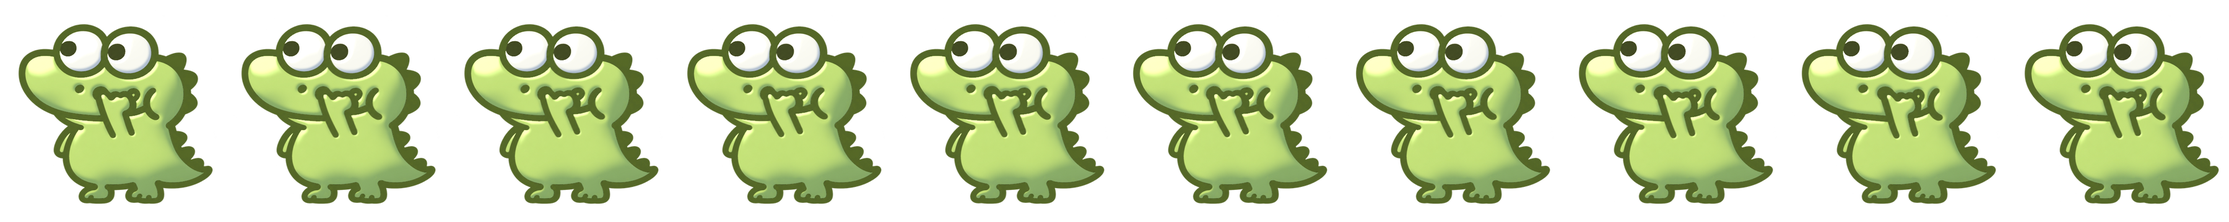
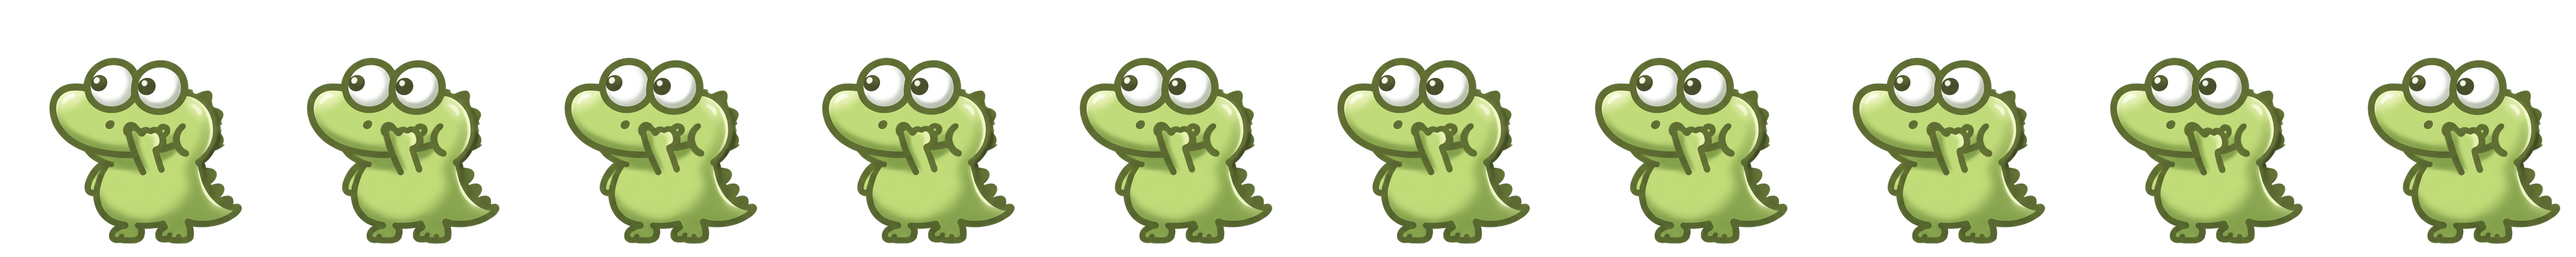
Switch the desktop crocodile to eight 2.5D key poses
- web/assets/desktop/source/ holds eight 2.5D key poses of the original
  character (rest picking its nose, crouch, work, recoil, relief, think,
  drink, jump), cut out of AI-assisted pose sheets that used the
  author's drawings as reference. BuildCrocSprites.py puts every pose on
  one canvas with the feet on a shared ground point, warps the nose-pick
  cycle and the tail sweep from the rest and work poses, and writes
  rest.png, work.png and poses.png.
- A pose state machine: state changes crouch, leap with the jump pose
  and land in the new pose; tools show the thinking pose; a finished
  stream gets a sigh of relief; a drop in local quota shows a drink;
  full speed holds the straining recoil face and slower shots flash it.
- Bottles move clear of the larger snout; effort now spans the tiers
  (about .3 at 40 tok/s, 1 from 140), so sweat and the strain face
  appear at the top tier. The preview drops quota while tools run so the
  drink shows in recordings.

diff --git a/CrocDesktop.cs b/CrocDesktop.cs
@@ -32,9 +32,11 @@ class CrocDesktop : Form {
     readonly Timer timer=new Timer();
     readonly ContextMenuStrip contextMenu=new ContextMenuStrip();
     // Frame strips built by BuildCrocSprites.py from the original drawings.
-    Image rest,work,bottle,bottleEmpty;
+    Image rest,work,poses,bottle,bottleEmpty;
     // Sprites pre-resampled once per scale, so each frame copies small bitmaps.
-    Bitmap[] restFrames=new Bitmap[0],workFrames=new Bitmap[0];
+    Bitmap[] restFrames=new Bitmap[0],workFrames=new Bitmap[0],poseFrames=new Bitmap[0];
+    // poses.png order, matching BuildCrocSprites.POSES.
+    const int Crouch=0, Recoil=1, Relief=2, Think=3, Drink=4, Jump=5;
     Bitmap bottleScaled,bottleEmptyScaled,poopScaled;
     double spriteScale=0;
     readonly string[] barText=new string[3];
@@ -58,25 +60,28 @@ class CrocDesktop : Form {
     DateTime previous=DateTime.UtcNow, lastRead=DateTime.MinValue;
     // Animation state, all advanced by Animate(dt) on the scene clock.
     double clock=0, poseSwitchAt=-10, lastRender=-1, nextBlink=1.8, blinkStart=-10, nextDrop=0, nextPick=3, pickStart=-10, lastPuff=-1;
-    bool doubleBlink=false, landed=true;
+    // Short-lived key poses: recoil after a single shot, relief after a stream, drinking when quota drops.
+    double recoilPoseUntil=-1, reliefUntil=-1, drinkUntil=-1;
+    bool doubleBlink=false, landed=true, wasEmitting=false, restShown=true;
+    float lastQuota=-1;
     int pickLoops=1;
     // Springs: recoil (px, negative toward the snout), tail sweep (degrees),
     // the bottles' lagging follow of the head (px) and their own tilt.
     float recoil=0, recoilVel=0, tail=0, tailVel=0, follow=0, followVel=0, hopY=0;
     readonly float[] bottleTilt=new float[5], bottleTiltVel=new float[5];
-    float workBlend=0, squash=0, squashVel=0, lean=0, effort=0, toolsBlend=0, quotaPercent=0, fillShown=1;
+    float squash=0, squashVel=0, lean=0, effort=0, toolsBlend=0, quotaPercent=0, fillShown=1;
     readonly float[] bottleScale=new float[5], bottleVel=new float[5];
     readonly Random random=new Random();
     class Particle { public float X,Y,TargetY,Speed,Age,Hop; public int Index; }
     class Drop { public float X,Y,VX,VY,Age; }
     class Puff { public float X,Y,Age,Size; }
     // Scene geometry in the 420 x 244 logical canvas.
-    // The work drawing stands 5.5 px higher than the rest drawing; WorkDrop puts both on the same ground.
-    const float SpriteX=125, SpriteY=35, SpriteSize=164, PivotX=207, PivotY=185, WorkDrop=5.5f;
-    const float ButtX=232, ButtY=145, EndX=408, PoopW=18, PoopH=15;
-    static readonly float[] LaneY={145,121,169}; // Butt height first, then fanned above and below.
+    // Every frame shares one square canvas whose feet point (59%, 95%) sits on PivotX, PivotY.
+    const float SpriteX=84.43f, SpriteY=-11.86f, SpriteSize=208, PivotX=207, PivotY=185;
+    const float ButtX=238, ButtY=138, EndX=408, PoopW=18, PoopH=15;
+    static readonly float[] LaneY={138,114,162}; // Butt height first, then fanned above and below.
     // Eye whites as fractions of the drawing (left, top, right, bottom).
-    static readonly float[,] RestEyes={{.2714f,.1406f,.4571f,.3203f},{.4857f,.1523f,.6776f,.3281f}};
+    static readonly float[,] RestEyes={{.3536f,.2536f,.4964f,.3911f},{.5411f,.2643f,.6839f,.3982f}};
         // Tail sweep of each work.png frame, matching BuildCrocSprites.TAIL.
     static readonly float[] TailAngles={-8,-4,0,4,8,12,16,20};
     static readonly Color Outline=Color.FromArgb(84,104,36), LidTop=Color.FromArgb(206,236,140), LidBottom=Color.FromArgb(160,190,96);
@@ -91,7 +96,7 @@ class CrocDesktop : Form {
         FormBorderStyle=FormBorderStyle.None;ShowInTaskbar=false;TopMost=true;StartPosition=FormStartPosition.Manual;
         Text="Croc Token 桌面鳄鱼";
         string art=Path.Combine(root,"web/assets/desktop");
-        rest=Image.FromFile(Path.Combine(art,"rest.png"));work=Image.FromFile(Path.Combine(art,"work.png"));
+        rest=Image.FromFile(Path.Combine(art,"rest.png"));work=Image.FromFile(Path.Combine(art,"work.png"));poses=Image.FromFile(Path.Combine(art,"poses.png"));
         bottle=Image.FromFile(Path.Combine(art,"bottle.png"));bottleEmpty=Image.FromFile(Path.Combine(art,"bottle-empty.png"));
         var area=Screen.PrimaryScreen.WorkingArea;Location=new Point(area.Right-450,area.Bottom-230);
         try{var saved=json.Deserialize<Dictionary<string,object>>(File.ReadAllText(Path.Combine(runtime,"layout.json")));scale=Convert.ToDouble(saved["scale"]);Location=new Point(Convert.ToInt32(saved["x"]),Convert.ToInt32(saved["y"]));}catch{}
@@ -129,7 +134,7 @@ class CrocDesktop : Form {
                 File.WriteAllText(Path.Combine(runtime,"smoke-result.json"),json.Serialize(new{visible=true,transparent=true,working=true,restored=true,menuCycles=8,modelAndCache=true,animationTimer=true,fiveSpeedTiers=true,bottleCountPreserved=true,bottomDataBar=true,poopMotion=true,width=Width,height=Height}));
             }catch(Exception error){File.WriteAllText(Path.Combine(runtime,"smoke-result.json"),json.Serialize(new{error=error.ToString()}));}
             Close();check.Dispose();};Shown+=(s,e)=>check.Start();}
-        FormClosed+=(s,e)=>{timer.Stop();Save();tray.Dispose();contextMenu.Dispose();rest.Dispose();work.Dispose();bottle.Dispose();bottleEmpty.Dispose();DisposeSprites();foreach(var f in barFont)if(f!=null)f.Dispose();FreeSurface();};
+        FormClosed+=(s,e)=>{timer.Stop();Save();tray.Dispose();contextMenu.Dispose();rest.Dispose();work.Dispose();poses.Dispose();bottle.Dispose();bottleEmpty.Dispose();DisposeSprites();foreach(var f in barFont)if(f!=null)f.Dispose();FreeSurface();};
     }
     void Save(){try{File.WriteAllText(Path.Combine(runtime,"layout.json"),json.Serialize(new{ x=Left,y=Top,scale=scale}));}catch{}}
     void ResizeScene(double value){scale=Math.Max(.7,Math.Min(2,value));ClientSize=new Size((int)(420*scale),(int)(244*scale));Save();Render(true);}
@@ -176,13 +181,13 @@ class CrocDesktop : Form {
         }
     }
     void DisposeSprites(){
-        foreach(var b in restFrames)b.Dispose();foreach(var b in workFrames)b.Dispose();
+        foreach(var b in restFrames)b.Dispose();foreach(var b in workFrames)b.Dispose();foreach(var b in poseFrames)b.Dispose();
         foreach(var b in new[]{bottleScaled,bottleEmptyScaled,poopScaled})if(b!=null)b.Dispose();
     }
     void EnsureSprites(){
         if(spriteScale==scale)return;
         DisposeSprites();spriteScale=scale;
-        restFrames=Frames(rest,scale);workFrames=Frames(work,scale);
+        restFrames=Frames(rest,scale);workFrames=Frames(work,scale);poseFrames=Frames(poses,scale);
         bottleScaled=Resample(bottle,20,30,scale);bottleEmptyScaled=Resample(bottleEmpty,20,30,scale);
         poopScaled=BuildPoop(scale);
     }
@@ -286,13 +291,20 @@ class CrocDesktop : Form {
         if(working!=wasWorking){
             squashVel+=working?-2.4f:-1.8f;wasWorking=working;poseSwitchAt=clock;landed=false;
             // Back at rest, the finger goes straight back to the nose.
-            if(!working){pickStart=clock+.45;pickLoops=1;nextPick=clock+5+random.NextDouble()*4;}
+            if(!working){pickStart=clock+.6;pickLoops=1;nextPick=clock+5+random.NextDouble()*4;}
         }
+        // A stream ending earns a sigh of relief; starting one is a small brace.
+        if(wasEmitting&&!emitting)reliefUntil=clock+1.3;
+        if(!wasEmitting&&emitting&&clock-poseSwitchAt>.4)squashVel-=1.2f;
+        wasEmitting=emitting;
+        // Milk gone from the bottles: the crocodile was drinking.
+        if(lastQuota>=0&&bottles>0&&quotaPercent<lastQuota-.01f&&!emitting)drinkUntil=clock+1.7;
+        lastQuota=quotaPercent;
         double jump=clock-poseSwitchAt;
         hopY=jump>=.07&&jump<.31?-(working?8:6)*(float)Math.Sin(Math.PI*(jump-.07)/.24):0;
-        if(jump>=.14)workBlend=working?1:0;
         if(!landed&&jump>=.31){landed=true;squashVel-=1.5f;}
-        effort+=((emitting?Clamp01((motion-.2f)/1.4f):0)-effort)*blend;
+        // Effort 0..1 across the speed tiers: about .3 at 40 tok/s, .6 at 80, 1 from 140.
+        effort+=((emitting?Clamp01((motion-.2f)/.8f):0)-effort)*blend;
         lean+=((working?-1.2f-3.4f*effort:0)-lean)*blend;
         toolsBlend+=((working&&!emitting?1:0)-toolsBlend)*(1-(float)Math.Exp(-dt/.15));
         // Every poop is a shot: it leaves fast, and the body, tail and bottles take
@@ -308,6 +320,7 @@ class CrocDesktop : Form {
                 laneEmission[lane]-=1;
                 particles.Add(new Particle{X=ButtX+recoil,Y=ButtY,TargetY=LaneY[lane],Speed=speed*1.9f,Index=particles.Count+lane});
                 recoilVel-=210*kick;tailVel+=220*kick;squashVel-=.9f*kick;
+                if(kick>.55f)recoilPoseUntil=clock+.13;
                 for(int i=0;i<5;i++)bottleTiltVel[i]+=((float)random.NextDouble()*2-1)*55*kick;
                 if(clock-lastPuff>.05){lastPuff=clock;puffs.Add(new Puff{X=ButtX+4+recoil,Y=ButtY-2+(float)random.NextDouble()*4,Size=.8f+.4f*kick});}
             }
@@ -349,13 +362,27 @@ class CrocDesktop : Form {
         double t=clock-blinkStart;
         return Math.Max(Lid(t),doubleBlink&&t>=.22?Lid(t-.22):0);
     }
+    Bitmap Pose(int index){return poseFrames.Length>index?poseFrames[index]:restFrames[0];}
     Bitmap CurrentFrame(){
-        if(workBlend>.5f){
-            int best=0;for(int i=1;i<TailAngles.Length&&i<workFrames.Length;i++)if(Math.Abs(TailAngles[i]-tail)<Math.Abs(TailAngles[best]-tail))best=i;
-            return workFrames[Math.Min(best,workFrames.Length-1)];
+        restShown=false;
+        // Pose changes: crouch, then airborne, then the new pose.
+        double jump=clock-poseSwitchAt;
+        if(jump<.07)return Pose(Crouch);
+        if(jump<.31)return Pose(Jump);
+        if(working){
+            if(emitting){
+                // A full-speed stream holds the straining face; slower shots flash it.
+                if(effort>.75f||clock<recoilPoseUntil)return Pose(Recoil);
+                int best=0;for(int i=1;i<TailAngles.Length&&i<workFrames.Length;i++)if(Math.Abs(TailAngles[i]-tail)<Math.Abs(TailAngles[best]-tail))best=i;
+                return workFrames[Math.Min(best,workFrames.Length-1)];
+            }
+            if(clock<reliefUntil)return Pose(Relief);
+            if(clock<drinkUntil)return Pose(Drink);
+            return Pose(Think);
         }
-        // Starting work pulls the finger out of the nose during the crouch.
-        if(working&&restFrames.Length>8)return restFrames[clock-poseSwitchAt<.07?7:8];
+        if(clock<reliefUntil)return Pose(Relief);
+        if(clock<drinkUntil)return Pose(Drink);
+        restShown=true;
         int cycle=restFrames.Length-1,step=(int)((clock-pickStart)*15);
         return cycle>0&&step>=0&&step<cycle*pickLoops?restFrames[1+step%cycle]:restFrames[0];
     }
@@ -404,7 +431,7 @@ class CrocDesktop : Form {
     void DrawBottles(Graphics g){
         // Five staggered slots in front of the snout; each floats on its own phase,
         // trails the head's lean and recoil, and wobbles when a shot lands.
-        float[,] slots={{117,84,.28f},{124,114,-.12f},{102,136,.06f},{141,150,-.05f},{110,174,.14f}};
+        float[,] slots={{62,82,.28f},{80,110,-.12f},{52,136,.06f},{118,152,-.05f},{86,170,.14f}};
         int last=bottles-1;
         for(int i=0;i<5;i++){
             float s=bottleScale[i];if(s<.02f)continue;
@@ -479,10 +506,10 @@ class CrocDesktop : Form {
         // A steady stream shudders the body slightly.
         float shudder=emitting?(float)Math.Sin(clock*47)*.5f*effort:0;
         g.TranslateTransform(PivotX+recoil+shudder,PivotY+bob+hopY);g.RotateTransform(lean+recoil*.35f);g.ScaleTransform(sx,sy);g.TranslateTransform(-PivotX,-PivotY);
-        var box=new RectangleF(SpriteX,SpriteY+(workBlend>.5f?WorkDrop:0),SpriteSize,SpriteSize);
+        var box=new RectangleF(SpriteX,SpriteY,SpriteSize,SpriteSize);
         g.DrawImage(CurrentFrame(),box);
-        // Only the resting face blinks; the working brows sit over the eye whites.
-        float closure=workBlend>.5f?0:Blink();
+        // Only the resting face blinks; the other poses draw their own eyes.
+        float closure=restShown?Blink():0;
         if(closure>.02f){
             var eyes=RestEyes;
             using(var lid=new Pen(Outline,2.6f)){

diff --git a/BuildCrocSprites.py b/BuildCrocSprites.py
@@ -1,18 +1,19 @@
-"""Build the desktop crocodile's 2.5D frame strips from the original artwork.
+"""Build the desktop crocodile's frame strips in web/assets/desktop/.
 
 Offline asset tool, not needed at runtime: requires Pillow, NumPy and SciPy
-(`python -m pip install pillow numpy scipy`). It reads the four flat drawings
-in web/assets/ and writes web/assets/desktop/:
+(`python -m pip install pillow numpy scipy`).
 
-- rest.png: idle pose; frame 0 neutral, frames 1..N a nose-picking cycle.
-- work.png: working pose with the tail swept from down to up.
-- bottle.png / bottle-empty.png: the bottle with the same lighting, full and
-  with its milk replaced by pale glass (for the partly drunk bottle).
+Sources (web/assets/desktop/source/) are eight 2.5D key poses of the original
+character - rest (nose picking), crouch, work, recoil, relief, think, drink and
+jump - cut out of AI-assisted pose sheets that used the author's drawings as
+the reference. Every pose is placed on one square canvas with its feet on a
+shared ground point, so poses swap without the body jumping. Outputs:
 
-Each frame is warped from the original drawing (so the character stays the
-author's) and then lit as a soft 2.5D volume: a key light from the top left,
-a two-tone core shadow, a glossy highlight and a faint rim on the back edge.
-The ink lines are left untouched.
+- rest.png: rest pose; frame 0 neutral, frames 1..N a warped nose-pick cycle.
+- work.png: work pose with the tail swept from down to up (TAIL degrees).
+- poses.png: crouch, recoil, relief, think, drink, jump (POSES order).
+- bottle.png / bottle-empty.png: the floating bottle, lit to match, full and
+  with the milk replaced by pale glass.
 """
 from pathlib import Path
 import math
@@ -22,14 +23,21 @@ from PIL import Image
 from scipy import ndimage
 
 ROOT = Path(__file__).resolve().parent
-SOURCE = ROOT / 'web' / 'assets'
-TARGET = SOURCE / 'desktop'
-FRAME = 360  # Square frame size; the window draws at most 328 px.
-
-# Nose picking: (lift px, finger twist degrees) per frame, at 512 px source scale.
+ASSETS = ROOT / 'web' / 'assets'
+TARGET = ASSETS / 'desktop'
+SOURCE = TARGET / 'source'
+CANVAS = 560             # Square canvas in source pixels.
+FEET = (330, 530)        # Where every grounded pose's feet land on the canvas.
+JUMP_LIFT = 36           # The jump pose floats this far above the ground.
+FRAME = 416              # Output frame size; the window draws at most ~414 px.
+POSES = ['crouch', 'recoil', 'relief', 'think', 'drink', 'jump']
+# Nose picking on the rest pose: (lift px, finger twist degrees) per frame.
 PICK = [(0, 0), (-3, -2), (-6, -4), (-8, -5), (-5, -2), (-7, -4), (-3, -1), (3, 3), (6, 5), (2, 2)]
 # Tail sweep in degrees, negative = down. Frame index TAIL.index(0) is neutral.
 TAIL = [-8, -4, 0, 4, 8, 12, 16, 20]
+# Rest-pose hand and wrist, work-pose tail base and the tail's bend region, in source pixels.
+HAND, WRIST, HAND_SIGMA = (222, 192), (248, 246), 30
+TAIL_BASE, TAIL_X, TAIL_Y, FEET_TOP = (338, 318), (318, 410), (226, 262), (335, 360)
 
 
 def smooth(e0, e1, x):
@@ -37,8 +45,25 @@ def smooth(e0, e1, x):
     return t * t * (3 - 2 * t)
 
 
-def load(name):
-    return np.asarray(Image.open(SOURCE / name).convert('RGBA')).astype(np.float32) / 255
+def load(path):
+    return np.asarray(Image.open(path).convert('RGBA')).astype(np.float32) / 255
+
+
+def placed(name):
+    """The pose on the shared canvas, feet on FEET, and the offset applied."""
+    pose = load(SOURCE / (name + '.png'))
+    alpha = pose[..., 3] > .5
+    ys, xs = np.nonzero(alpha)
+    bottom = ys.max()
+    feet_x = xs[ys > bottom - 8].mean()
+    dx = int(round(FEET[0] - feet_x))
+    dy = int(round(FEET[1] - bottom - (JUMP_LIFT if name == 'jump' else 0)))
+    canvas = np.zeros((CANVAS, CANVAS, 4), np.float32)
+    h, w = pose.shape[:2]
+    y0, x0 = max(0, dy), max(0, dx)
+    y1, x1 = min(CANVAS, dy + h), min(CANVAS, dx + w)
+    canvas[y0:y1, x0:x1] = pose[y0 - dy:y1 - dy, x0 - dx:x1 - dx]
+    return canvas, (dx, dy)
 
 
 def warp(image, field):
@@ -65,7 +90,8 @@ def rotation_field(cx, cy, degrees, weight, shift=(0, 0)):
     return field
 
 
-def light(image, big=34, small=6, k=60.0, key=(-0.6, -0.8, 0.55), band=(.27, .48)):
+def light(image, big=20, small=5, k=40.0, key=(-0.6, -0.8, 0.55), band=(.27, .48)):
+    """Soft 2.5D lighting for the flat bottle drawing, matching the poses."""
     rgb, a = image[..., :3], image[..., 3]
     lum = rgb @ np.array([.299, .587, .114], np.float32)
     solid = a > .5
@@ -88,9 +114,6 @@ def light(image, big=34, small=6, k=60.0, key=(-0.6, -0.8, 0.55), band=(.27, .48
     half = lv + np.array([0, 0, 1], np.float32)
     half /= np.linalg.norm(half)
     col += (.30 * smooth(.90, .97, np.clip(n @ half, 0, 1)))[..., None]
-    rim_dir = np.array([.75, .35, .2], np.float32) / np.linalg.norm([.75, .35, .2])
-    edge = np.clip((1 - ndimage.gaussian_filter(solid.astype(np.float32), 3 * s)) * 3, 0, 1)
-    col += (.10 * smooth(.55, .8, np.clip(n @ rim_dir, 0, 1)) * edge)[..., None]
     col *= (1 - .06 * ndimage.gaussian_filter(ink.astype(np.float32), 2.5 * s))[..., None]
     out = image.copy()
     out[..., :3] = np.where(fill[..., None], np.clip(col, 0, 1), rgb)
@@ -98,51 +121,41 @@ def light(image, big=34, small=6, k=60.0, key=(-0.6, -0.8, 0.55), band=(.27, .48
 
 
 def to_frame(image, size=FRAME):
-    """Resize onto a square canvas, keeping the drawing's own aspect as the window does."""
-    pil = Image.fromarray((image * 255 + .5).astype(np.uint8), 'RGBA')
-    return pil.resize((size, size), Image.LANCZOS)
+    return Image.fromarray((image * 255 + .5).astype(np.uint8), 'RGBA').resize((size, size), Image.LANCZOS)
 
 
-def strip(frames):
+def strip(frames, name):
     sheet = Image.new('RGBA', (FRAME * len(frames), FRAME))
     for i, frame in enumerate(frames):
         sheet.paste(frame, (i * FRAME, 0))
-    return sheet
+    sheet.save(TARGET / name, optimize=True)
 
 
 def main():
-    TARGET.mkdir(exist_ok=True)
-    rest = load('croc-rest.png')
-    h, w = rest.shape[:2]
-    sx, sy = w / 512, h / 512
-    # The hand at the nostril, pivoting at the wrist.
-    hand = (265 * sx, 262 * sy)
-    wrist = (300 * sx, 330 * sy)
-    sigma = 46 * sx
-    hand_weight = lambda xx, yy: np.exp(-((xx - hand[0]) ** 2 + (yy - hand[1]) ** 2) / (2 * sigma ** 2))
-    rest_frames = [to_frame(light(warp(rest, rotation_field(wrist[0], wrist[1], twist, hand_weight, (0, lift * sy)))))
-                   for lift, twist in PICK]
-    strip(rest_frames).save(TARGET / 'rest.png', optimize=True)
+    rest, (dx, dy) = placed('rest')
+    hand = (HAND[0] + dx, HAND[1] + dy)
+    wrist = (WRIST[0] + dx, WRIST[1] + dy)
+    near_hand = lambda xx, yy: np.exp(-((xx - hand[0]) ** 2 + (yy - hand[1]) ** 2) / (2 * HAND_SIGMA ** 2))
+    strip([to_frame(warp(rest, rotation_field(wrist[0], wrist[1], twist, near_hand, (0, lift)))) for lift, twist in PICK], 'rest.png')
 
-    work = load('croc-work.png')
-    h, w = work.shape[:2]
-    sx, sy = w / 512, h / 512
-    base = (372 * sx, 392 * sy)
-    # Bend progressively from the tail base outwards; the body stays put.
-    tail_weight = lambda xx, yy: smooth(352 * sx, 452 * sx, xx) * smooth(300 * sy, 345 * sy, yy)
-    work_frames = [to_frame(light(warp(work, rotation_field(base[0], base[1], -angle, tail_weight)))) for angle in TAIL]
-    strip(work_frames).save(TARGET / 'work.png', optimize=True)
+    work, (dx, dy) = placed('work')
+    base = (TAIL_BASE[0] + dx, TAIL_BASE[1] + dy)
+    # Bend from the tail base outwards; the body and the feet below it stay put.
+    tail = lambda xx, yy: (smooth(TAIL_X[0] + dx, TAIL_X[1] + dx, xx) * smooth(TAIL_Y[0] + dy, TAIL_Y[1] + dy, yy)
+                           * (1 - smooth(FEET_TOP[0] + dy, FEET_TOP[1] + dy, yy)))
+    strip([to_frame(warp(work, rotation_field(base[0], base[1], -angle, tail))) for angle in TAIL], 'work.png')
 
-    bottle = load('bottle.png')
+    strip([to_frame(placed(name)[0]) for name in POSES], 'poses.png')
+
+    bottle = load(ASSETS / 'bottle.png')
     rgb, a = bottle[..., :3], bottle[..., 3]
     rows = np.arange(bottle.shape[0])[:, None] > bottle.shape[0] * .5
     milk = (a > .8) & rows & (rgb[..., 0] > .92) & (rgb[..., 1] > .92) & (rgb[..., 2] > .84) & (rgb[..., 2] <= .98)
     empty = bottle.copy()
     empty[milk] = [.894, .957, .969, .61]
     for name, image in (('bottle.png', bottle), ('bottle-empty.png', empty)):
-        lit = light(image, big=20, small=5, k=40.0)
-        Image.fromarray((lit * 255 + .5).astype(np.uint8), 'RGBA').save(TARGET / name, optimize=True)
-    print('rest', len(PICK), 'work', len(TAIL), 'frames of', FRAME, 'px ->', TARGET)
+        Image.fromarray((light(image) * 255 + .5).astype(np.uint8), 'RGBA').save(TARGET / name, optimize=True)
+    print('rest', len(PICK), 'work', len(TAIL), 'poses', len(POSES), 'frames of', FRAME, 'px ->', TARGET)
 
 
 if __name__ == '__main__':

diff --git a/tests/CrocPreview.cs b/tests/CrocPreview.cs
@@ -35,7 +35,7 @@ static class CrocPreview {
     static string Scene(double t) {
         string stage = t < 3 ? "idle" : t < 5 ? "tools" : t < 17 ? "generating" : t < 19 ? "tools" : "idle";
         double rate = t < 5 ? 0 : t < 8 ? 10 : t < 11 ? 40 : 140;
-        double quota = t < 15 ? 54 : 38;
+        double quota = t < 17.6 ? 54 : 38; // Drops while tools run, after the stream.
         bool emitting = stage == "generating" && rate > 0;
         int tier = rate <= 0 ? 0 : 1 + (rate >= 15 ? 1 : 0) + (rate >= 30 ? 1 : 0) + (rate >= 60 ? 1 : 0) + (rate >= 100 ? 1 : 0);
         int lanes = new[]{0,1,1,2,2,3}[tier];

diff --git a/PackageCroc.py b/PackageCroc.py
@@ -14,7 +14,7 @@ def main():
              'web/croc.js', 'croc_scene.py', 'web/index.html', 'web/app.js', 'web/style.css',
              'web/assets/croc-rest.png', 'web/assets/croc-work.png',
              'web/assets/bottle.png', 'web/assets/poop.png', 'BuildCrocSprites.py',
-             'web/assets/desktop/rest.png', 'web/assets/desktop/work.png',
+             'web/assets/desktop/rest.png', 'web/assets/desktop/work.png', 'web/assets/desktop/poses.png',
              'web/assets/desktop/bottle.png', 'web/assets/desktop/bottle-empty.png']
     for name in files:
         if not (root / name).is_file():

diff --git a/CROC_README.md b/CROC_README.md
@@ -16,7 +16,7 @@
 - 桌面版只保留三个主数据：五小时额度重置时间、五小时剩余百分比、最近响应平均输出 tok/s。动画速度和密度连续平滑变化。
 - 对话结束立即切回休息形象，奶瓶在休息时也保留。工具等待期间保持工作形象但不新增便便。
 - 位置、大小和固定的对话存在用户数据目录的 `croc-desktop/` 下（Windows：`%USERPROFILE%\.codex-token-hud\croc-desktop`），解压到只读目录也能保存；旧版 `runtime/desktop/` 中的设置会在首次启动时自动迁移。退出场景后采集进程自动结束。
-- 原始平面素材在 `web/assets/` 中（浏览器版使用）。桌面版的 2.5D 帧条在 `web/assets/desktop/`，由 `BuildCrocSprites.py` 从原图生成：先局部形变出抠鼻子和甩尾巴的帧，再加体积光影，描边不动。改了原图后重新运行它即可（需要 `pip install pillow numpy scipy`，运行桌面版本身不需要）。便便由代码按缩放比例矢量绘制。
+- 原始平面素材在 `web/assets/` 中（浏览器版使用）。桌面版使用 8 个 2.5D 关键姿势（休息抠鼻子、下蹲、工作、后坐、松口气、思考、喝奶、起跳），源图在 `web/assets/desktop/source/`：以原作者的鳄鱼为参考，经 AI 辅助生成姿势表后抠图得到。`BuildCrocSprites.py` 把它们放到同一画布、同一地面点上，并在休息和工作姿势上形变出抠鼻子和甩尾巴的帧，生成 `web/assets/desktop/` 中的帧条（重新生成需要 `pip install pillow numpy scipy`，运行桌面版本身不需要）。便便由代码按缩放比例矢量绘制。
 
 ### 浏览器调试版
 
@@ -35,7 +35,7 @@
 - 最近完成响应的平均输出速率分五档：不足 15、15–<30、30–<60、60–<100、≥100 tok/s，分别为 1、1、2、2、3 行。从屁股处开始向上下展开，不表示输出总量。
 - 速率越快，向右移动越快、便便越密；约 300 毫秒平滑加减速，各行错峰生成。行数切档等待约 600 毫秒，减少频繁变化。
 - 工具执行时停止新增便便，鳄鱼头顶出现思考的三个点；对话结束立即让角色恢复正常，已有便便继续离场；休息时仍用奶瓶数量显示已知的剩余额度。
-- 桌面版动效：休息时缓慢呼吸、不定时眨眼、偶尔抠鼻子；切换姿态时下蹲、起跳、在空中换形象、落地压扁再回弹；工作时随速度前倾、加快呼吸。每颗便便都是一次“喷射”：便便高速出膛后减速，鳄鱼身体被推向嘴的方向、尾巴上甩、屁股冒一小团气；低档时是一下一下的后坐，高档时变成持续前顶加轻微抖动；最高两档会冒汗。奶瓶延迟跟随鳄鱼头部的前倾和后坐，每次喷射都会被震得晃一下。这些都只是表现，不额外表达数据。
+- 桌面版动效：休息时缓慢呼吸、不定时眨眼、偶尔抠鼻子；切换状态时先下蹲，再以起跳姿势腾空，落地压扁再回弹；工具执行时摆出思考姿势；一轮输出结束时松一口气；本地额度下降时抱着奶瓶喝一口。工作时随速度前倾、加快呼吸，最高档一直是憋劲挤眼的后坐表情，低档每次喷射闪一下后坐表情。每颗便便都是一次“喷射”：便便高速出膛后减速，鳄鱼身体被推向嘴的方向、尾巴上甩、屁股冒一小团气；低档时是一下一下的后坐，高档时变成持续前顶加轻微抖动；最高两档会冒汗。奶瓶延迟跟随鳄鱼头部的前倾和后坐，每次喷射都会被震得晃一下。这些都只是表现，不额外表达数据。
 - 图形是分档表达，不代表每个图形对应固定 Token。
 
 奶瓶已不再表达输入消息量或历史上下文。额度来自本机日志中的真实五小时窗口快照。底部采用紧凑米白圆角单行数据栏（逻辑尺寸 260×30），依次显示五小时剩余百分比、重置时间和最近响应平均输出 tok/s，不显示标题。三格宽度为 60 / 70 / 130，给速度及完整单位预留更多空间；无进度条或角色装饰。来源和记录时间在右键菜单查看。动画试播只切换速度，保留当前奶瓶数量；只有明确选择“试播奶瓶额度”才使用模拟额度。缺额度数据或已过重置时间时不显示奶瓶，右键标明待更新，不自动补满。

diff --git a/CROC_RELEASE_NOTES.md b/CROC_RELEASE_NOTES.md
@@ -1,5 +1,7 @@
 # Croc 桌面动效 · 未发布
 
+- 8 个 2.5D 关键姿势（AI 辅助生成，以原作者鳄鱼为参考）：休息抠鼻子、下蹲、工作、后坐、松口气、思考、喝奶、起跳。统一画布和地面点，切换时脚不动；状态机按 下蹲 → 腾空 → 新姿势 切换，工具执行显示思考，输出结束松口气，额度下降时喝奶，全速时保持憋劲后坐表情。
+- 关键姿势画得更大（画布 208 逻辑像素），三次 runner 录制单核占用约为休息 12–15%、工作 6–31%，内存峰值约 77 MB；原版约 100% / 82 MB。
 - 2.5D：新增 `BuildCrocSprites.py`，从作者原图离线生成 `web/assets/desktop/` 帧条——局部形变出抠鼻子循环（10 帧）和尾巴摆动（8 档），再加顶光、双色体积阴影、高光和背光边；描边和造型不变。奶瓶同样处理，并预生成空瓶。脚下加柔和接触阴影。
 - 后坐力：每颗便便高速出膛，鳄鱼被推向前、尾巴上甩、屁股冒气；单发时一下一下，连发时变成持续前顶加抖动。
 - 奶瓶：整体前移避开嘴，延迟跟随头部的前倾和后坐，喷射时被震得摇晃。
